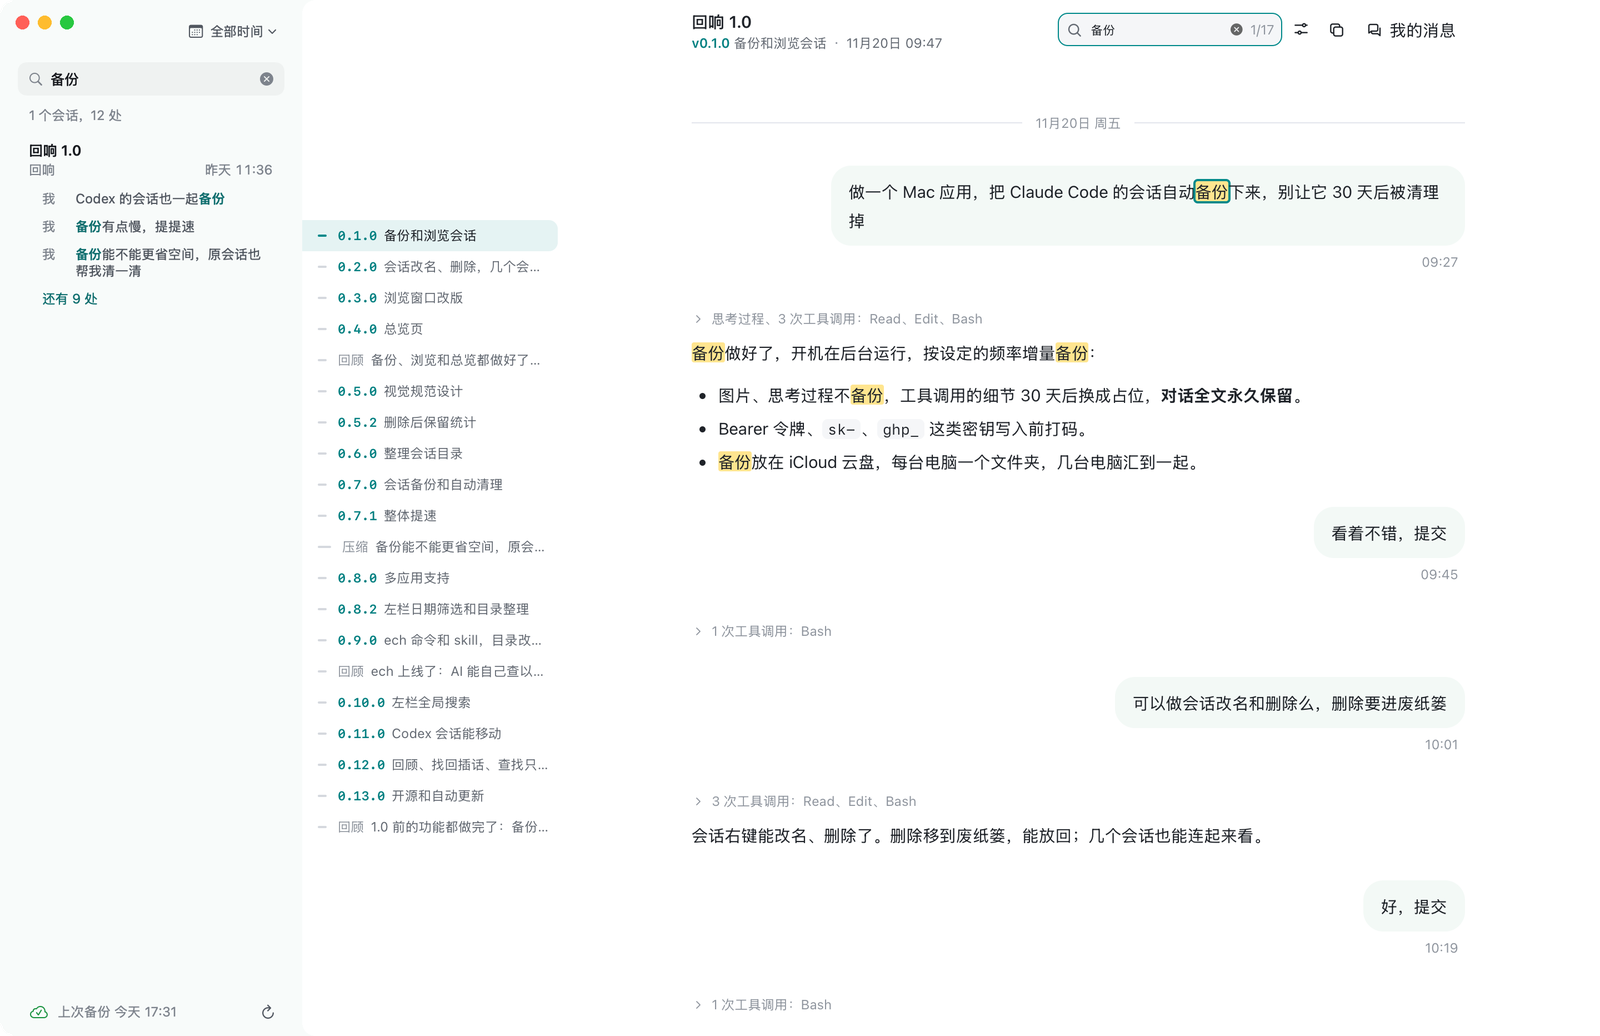
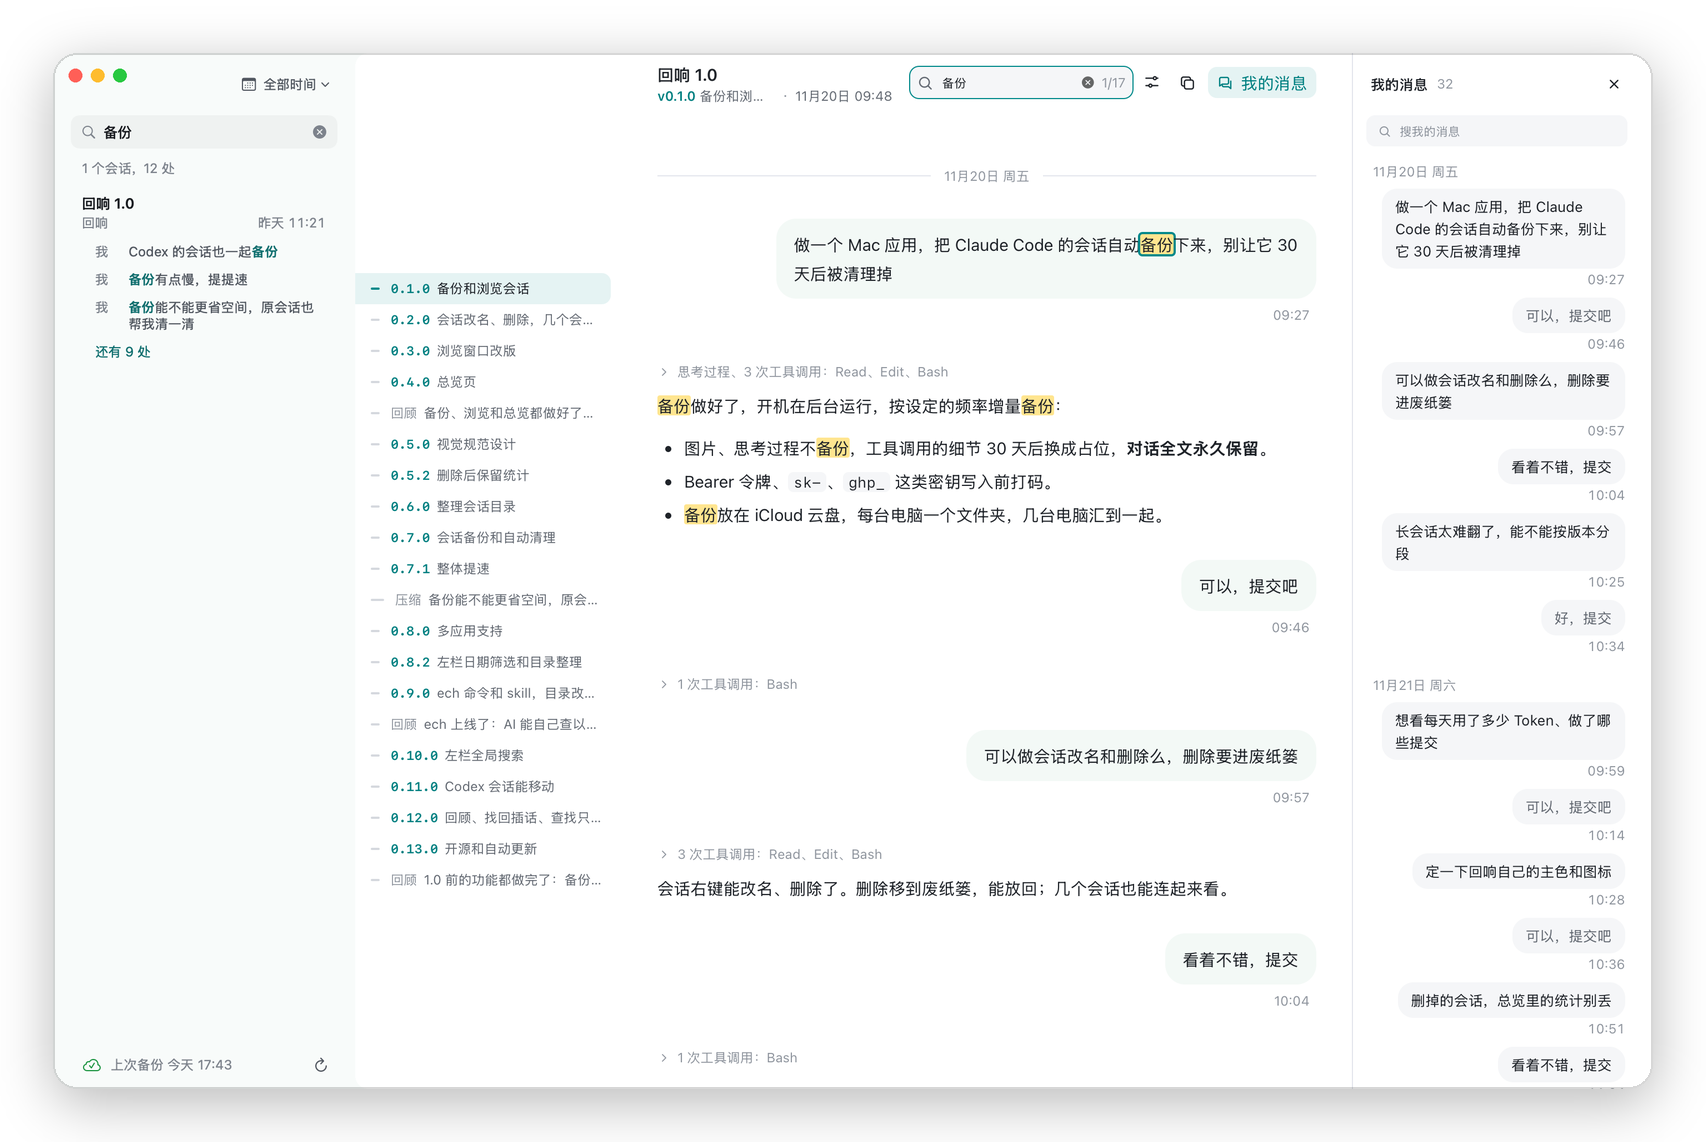
README 图片都加边框和投影，自动备份并排放存储设置和访达，按版本回看配图

diff --git a/README.md b/README.md
@@ -4,7 +4,7 @@
 
 <p align="center">你和 AI 聊过的，回响都记得。</p>
 
-<p align="center">把 Claude Code、Codex 的会话自动存下来，你能翻能搜，AI 也能自己查。<br>开源免费的 Mac 应用，数据只存在你自己的电脑和 iCloud 里。</p>
+<p align="center">把 Claude Code、Codex 的会话自动存下来，你能翻能搜，AI 也能自己查。<br>开源免费的 Mac 应用，数据只存在你自己的电脑里，多台电脑之间用你自己的 iCloud 同步。</p>
 
 <p align="center"><a href="#安装">安装</a> · <a href="README.en.md">English</a></p>
 
@@ -31,7 +31,7 @@
 - 备份放在 iCloud 云盘，每台电脑一个文件夹，多台电脑的会话在一个界面里统一管理
 - 很久没用的会话，确认备份完整后移到废纸篓，原来的文件夹不会越攒越大
 
-<p align="center"><picture><source media="(prefers-color-scheme: dark)" srcset="docs/storage-dark.png"><img src="docs/storage-light.png" width="100%" alt="设置里的存储页：备份共 1.1 GB，按对话消息、工具调用、工具结果、思考过程、系统记录分开统计，各自设保留期限"></picture></p>
+<p align="center"><picture><source media="(prefers-color-scheme: dark)" srcset="docs/storage-dark.png"><img src="docs/storage-light.png" width="49%" alt="设置里的存储页：备份共 1.1 GB，按对话消息、工具调用、工具结果、思考过程、系统记录分开统计，各自设保留期限"></picture> <img src="docs/finder.svg" width="49%" alt="访达里的 iCloud 云盘 › 回响备份：每台电脑一个文件夹，里面按应用分 claude、codex"></p>
 
 ## 按版本回看
 
@@ -41,6 +41,8 @@
 - 标题栏下面一行写着你正在读的版本
 - 右边「我的消息」按天列出你发过的每一条，点一下就定位过去
 - 思考过程和工具调用默认收成一行，要看再点开
+
+<p align="center"><picture><source media="(prefers-color-scheme: dark)" srcset="docs/timeline-dark.png"><img src="docs/timeline-light.png" width="100%" alt="会话停在 0.3.0 浏览窗口改版：左边要点栏按版本列出，中间是那一版的对话，右边「我的消息」按天列出你发过的每一条"></picture></p>
 
 ## 全局搜索
 

diff --git a/README.en.md b/README.en.md
@@ -4,7 +4,7 @@
 
 <p align="center">Everything you've talked through with AI, remembered.</p>
 
-<p align="center">Echo keeps your Claude Code and Codex sessions so you can browse and search them, and your AI can look them up too.<br>A free, open-source Mac app. Your data stays on your own Mac and in your iCloud.</p>
+<p align="center">Echo keeps your Claude Code and Codex sessions so you can browse and search them, and your AI can look them up too.<br>A free, open-source Mac app. Your data stays on your own Mac, synced between Macs through your own iCloud.</p>
 
 <p align="center"><a href="#install">Install</a> · <a href="README.md">中文</a></p>
 
@@ -29,7 +29,7 @@ Runs in the background at login and keeps your Claude Code and Codex sessions, s
 - Backups live in iCloud Drive, one folder per Mac, so sessions from all your Macs come together
 - Sessions unused for a long time are moved to Trash from Claude Code and Codex once fully backed up
 
-<p align="center"><img src="docs/how-archive.svg" width="100%" alt="Back up automatically, slim and mask secrets, gather across Macs, find the original words with a search"></p>
+<p align="center"><picture><source media="(prefers-color-scheme: dark)" srcset="docs/storage-dark.png"><img src="docs/storage-light.png" width="49%" alt="Storage settings: 1.1 GB of backups split by conversation, tool calls, tool results, thinking and system records, each with its own retention"></picture> <img src="docs/finder.svg" width="49%" alt="Finder showing iCloud Drive › 回响备份 with one folder per Mac"></p>
 
 ## Review by version
 
@@ -39,6 +39,8 @@ A project's session easily runs thousands of turns with several compactions. Rea
 - The header shows the session title, with the version you're reading below it
 - The "my messages" panel on the right lists everything you sent, by day
 - Thinking and tool calls collapse into one line until you open them
+
+<p align="center"><picture><source media="(prefers-color-scheme: dark)" srcset="docs/timeline-dark.png"><img src="docs/timeline-light.png" width="100%" alt="A session at version 0.3.0: the keypoint rail on the left, the conversation in the middle, your messages by day on the right"></picture></p>
 
 ## Global search
 
